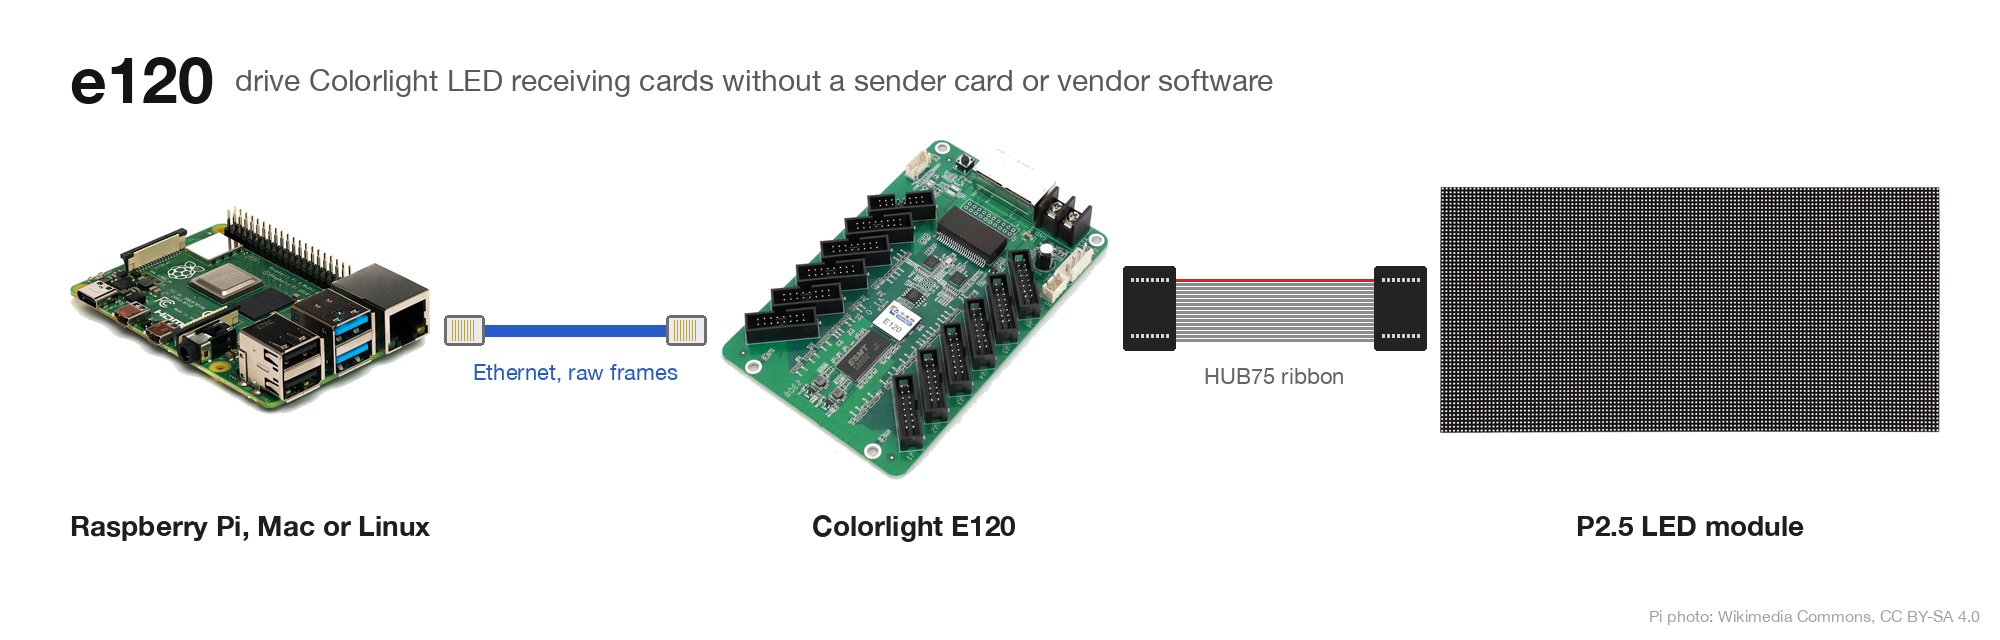
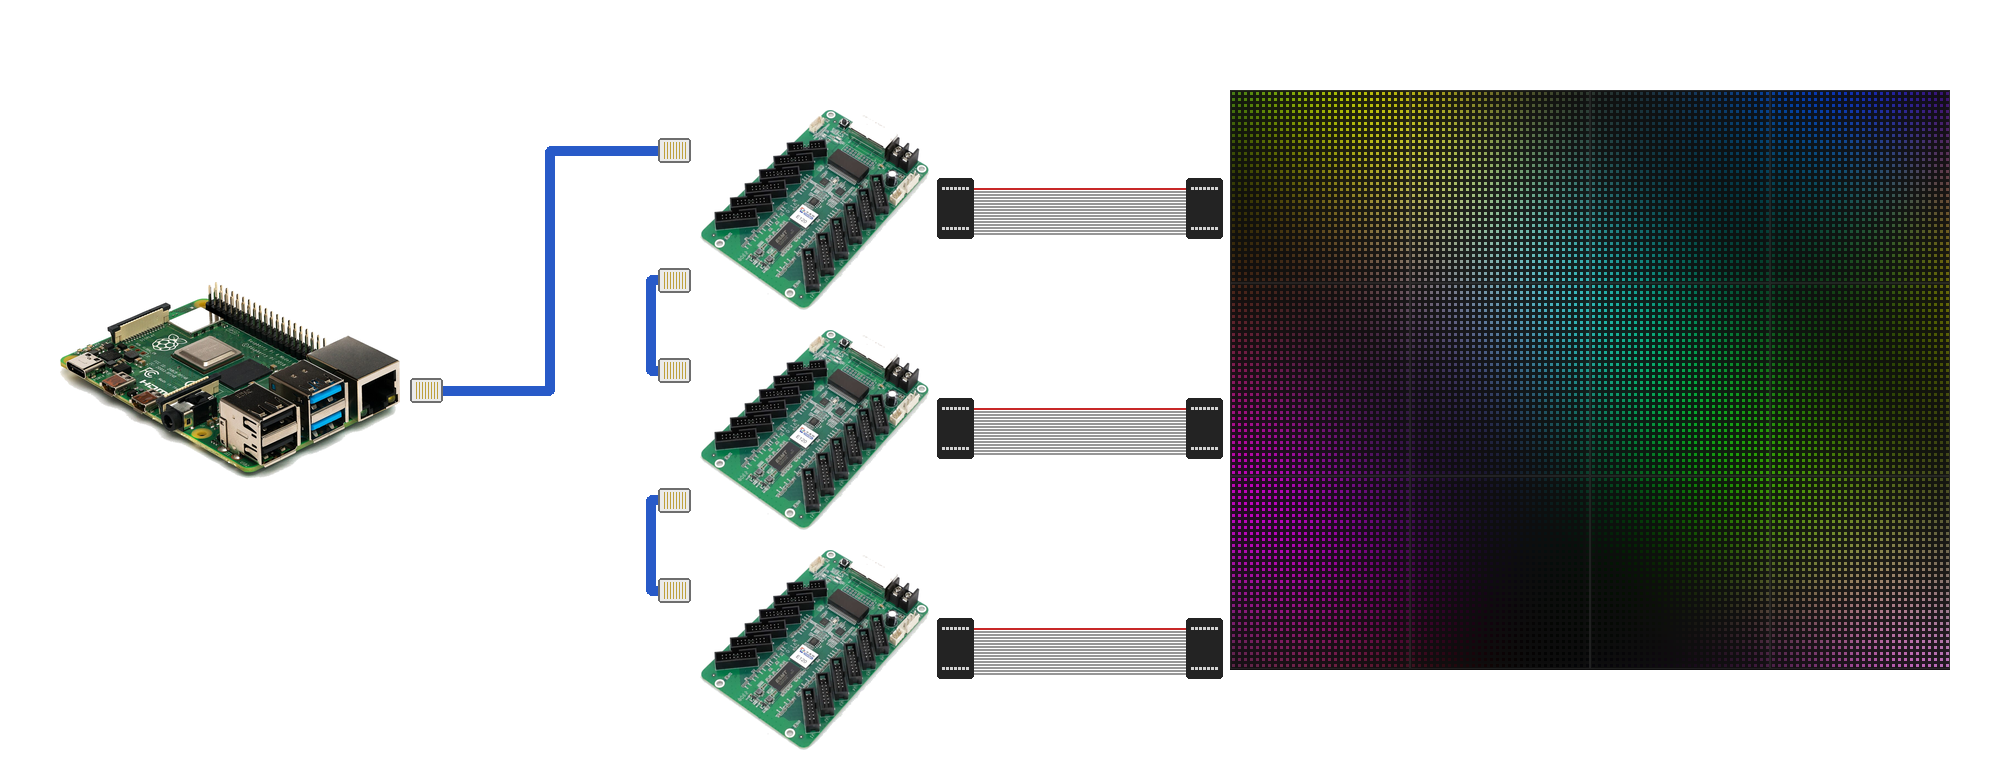
docs(readme): header without text, chained cards and a generic wall

diff --git a/README.md b/README.md
@@ -1,6 +1,6 @@
 # e120
 
-![A Raspberry Pi, Mac or Linux machine drives a Colorlight E120 over Ethernet; the card drives a P2.5 LED module over a HUB75 ribbon](docs/readme-header.png)
+![A Raspberry Pi drives chained Colorlight E120 cards over Ethernet; each card drives part of an LED wall over HUB75 ribbons](docs/readme-header.png)
 
 Drive a Colorlight E120 LED receiving card and its modules over raw Ethernet: generate and flash the module configuration yourself, then put images, video and live streams on the panel.
 
@@ -241,4 +241,4 @@ Developed against one Colorlight E120 receiving card running firmware 16.53 (`E3
 
 ## License
 
-MIT, see [LICENSE](LICENSE).
+MIT, see [LICENSE](LICENSE). The Raspberry Pi photo in the header is from Wikimedia Commons, CC BY-SA 4.0.
